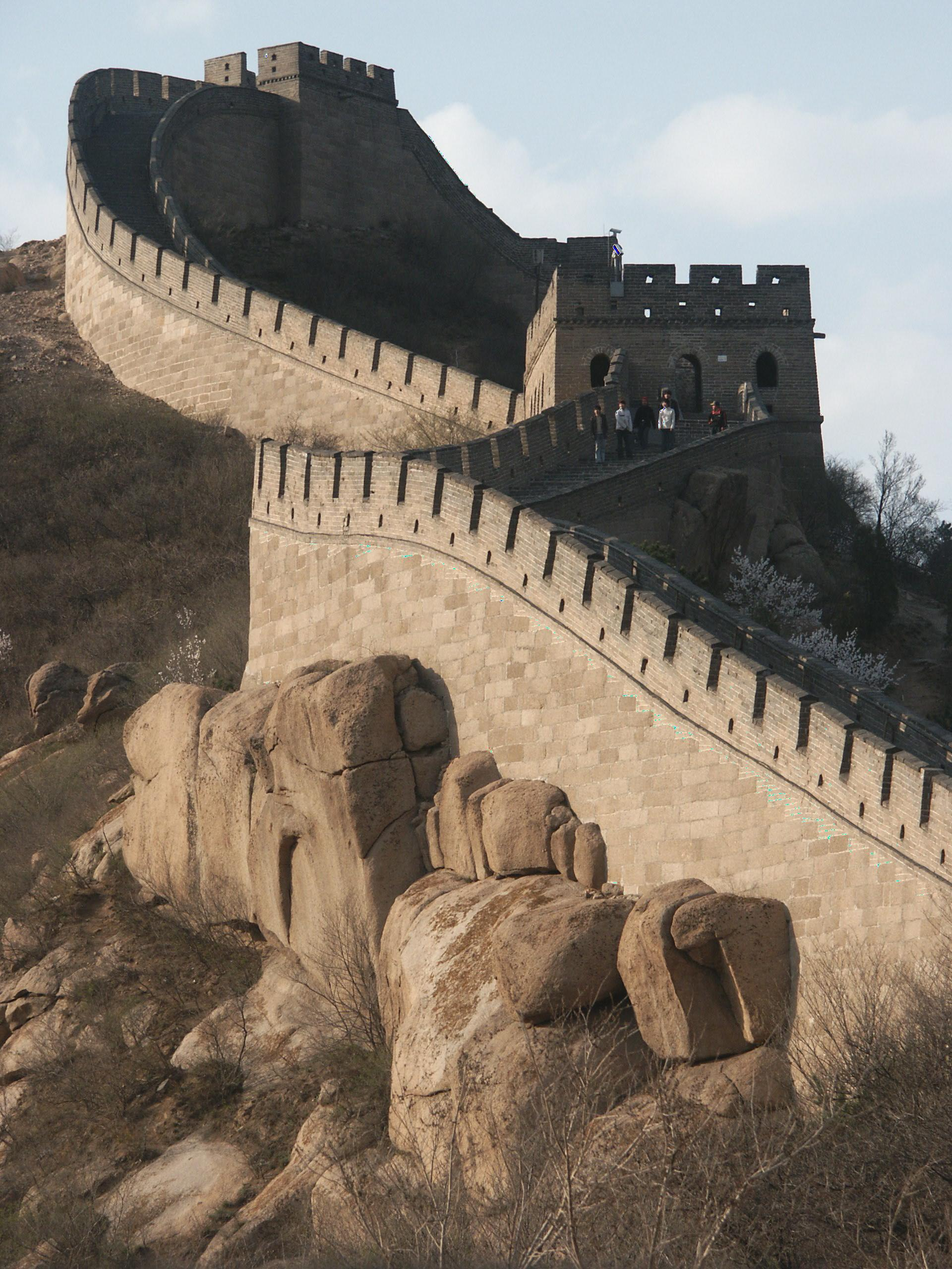
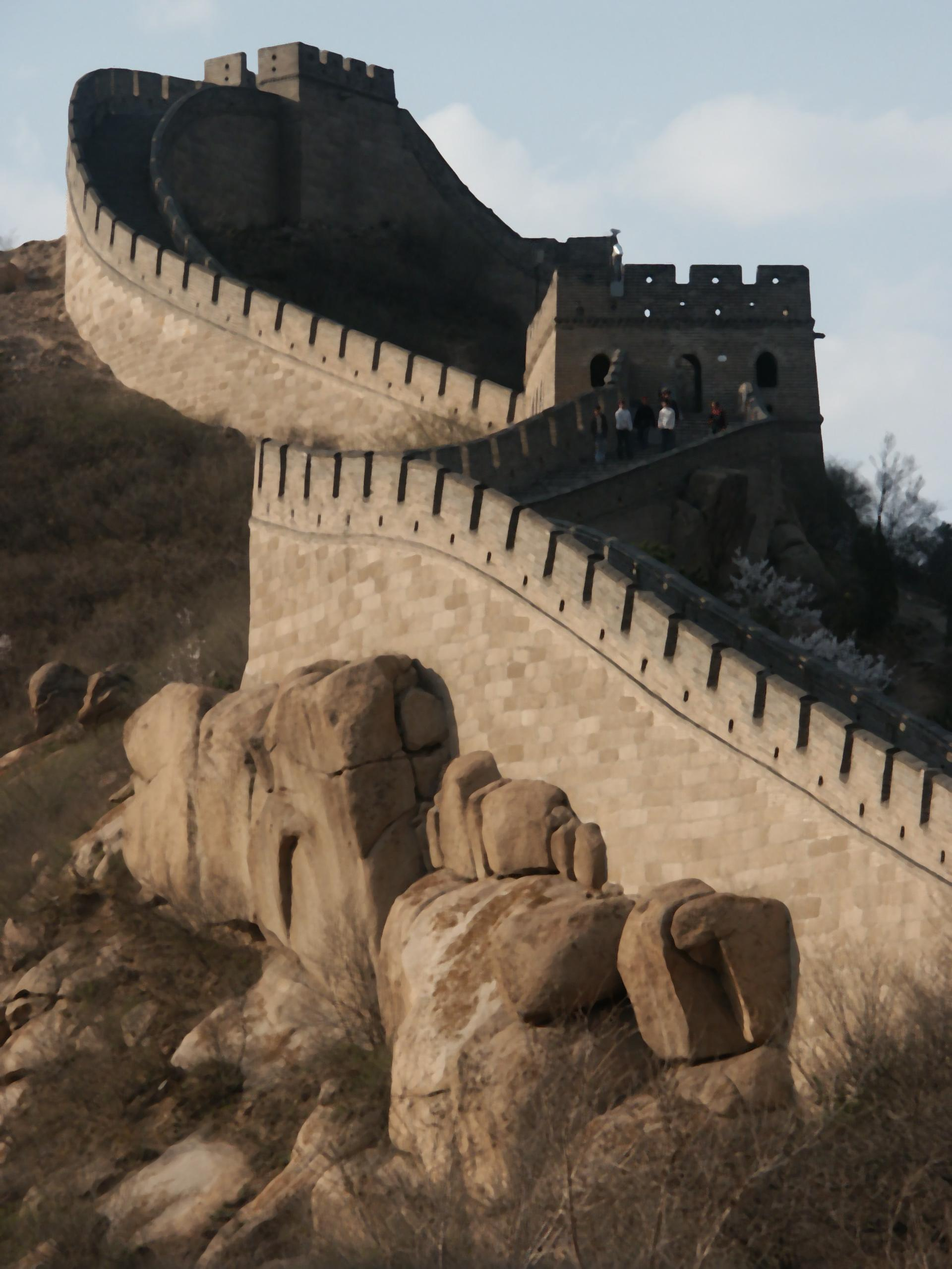
edge cases fixed

diff --git a/Prac2.cpp b/Prac2.cpp
@@ -92,7 +92,7 @@ void quickSort(int* pArray, int pLower_i, int pHigher_i){
 int main(int argc, char** argv){
   printf("Code is running...");
   tic();
-  Input.Read("Data/small.jpg");
+  Input.Read("Data/greatwall.jpg");
   int winSizeX = 9;
   int winSizeY = 9;
   //quickSort(arr, 0, n-1);
@@ -106,7 +106,10 @@ int main(int argc, char** argv){
   int x, y, fx, fy, winEdgeX, winEdgeY;
   for(y = 0; y < Input.Height; y++){
     winEdgeY = y - (winSizeY/2);
+    int diffY = 0;
+ //   std::cout << "EdgeY ---------------: "<< winEdgeY << std::endl;
     if(winEdgeY < 0){
+      diffY = -winEdgeY;
       winEdgeY = 0;
     }
 
@@ -114,18 +117,21 @@ int main(int argc, char** argv){
       // get all the neighboring pixels and put them in and array of 81 items
       // Window will be shrinked near the boundries
       winEdgeX = x - (((int)(winSizeX/2))*Input.Components);
+      //std::cout << "EdgeX ---------------: "<< winEdgeX << std::endl;
+      int diffX = 0;
       if(winEdgeX < 0){
+        diffX = -winEdgeX;
         winEdgeX = 0;
       }
 
-      int diffX = 0;
-      int diffY = 0;
       if((winEdgeX + (winSizeX*Input.Components)) > (Input.Width*Input.Components)){
         diffX = (winEdgeX + (winSizeX*Input.Components)) - (Input.Width*Input.Components);
       } 
       if((winEdgeY + winSizeY) > Input.Height){
         diffY = (winEdgeY + winSizeY) - Input.Height;
       }
+      //std::cout << "X ---------------: " << diffX<< std::endl;
+     // std::cout << "Y ---------------: " << diffY<< std::endl;
       int n = (winSizeX - (diffX/Input.Components))*(winSizeY - diffY);
       neighborPixels = new int[n];
       int i = 0;
@@ -135,29 +141,34 @@ int main(int argc, char** argv){
         }
       }
       // Sort this list
-      std::cout << "Before sorting ---------------" << std::endl;
-      printArray(neighborPixels, n);
+   //   std::cout << "Before sorting ---------------" << std::endl;
+//      printArray(neighborPixels, n);
       quickSort(neighborPixels, 0, n - 1);
-      std::cout << "After sorting ---------------" << std::endl;
-      printArray(neighborPixels, n); 
+//      std::cout << "After sorting ---------------" << std::endl;
+//      printArray(neighborPixels, n); 
       // Save the median of the sorted list to the current pixel
       int median = neighborPixels[(n - 1)/2];
       delete[] neighborPixels;
 
       // Convert the median back to RGB (3 components
-      std::cout << "Size of window ---------------: " << n << std::endl;
-      std::cout << "Median ---------------: " << median << std::endl;
+  //    std::cout << "Size of window ---------------: " << n << std::endl;
+//      std::cout << "Median ---------------: " << median << std::endl;
 
-      Output.Rows[y][x + 0] = ((median >> 16) & 0xff)/255.0;
-      Output.Rows[y][x + 1] = ((median >> 8) & 0xff)/255.0;
-      Output.Rows[y][x + 2] = (median & 0xff)/255.0;
+      Output.Rows[y][x + 0] = ((median >> 16) & 0xff);
+      Output.Rows[y][x + 1] = ((median >> 8) & 0xff);
+      Output.Rows[y][x + 2] = (median & 0xff);
       
-      std::cout << "-------R--------" << (int)Output.Rows[y][x + 0] <<std::endl;
-      std::cout << "-------G--------" << (int)Output.Rows[y][x + 1] <<std::endl;
-      std::cout << "-------B--------" << (int)Output.Rows[y][x + 2] <<std::endl;      
-      break;
+//      std::cout << "-------R--------" << (int)Output.Rows[y][x + 0] <<std::endl;
+//      std::cout << "-------G--------" << (int)Output.Rows[y][x + 1] <<std::endl;
+//      std::cout << "-------B--------" << (int)Output.Rows[y][x + 2] <<std::endl;      
+//      break;
     }
-    break;
+//    break;
+  }
+ // Write the output image
+  if(!Output.Write("Data/Output1.jpg")){
+    printf("Cannot write image\n");
+    return -3;
   }
 
   printf("Run time is: %lg ms \n", toc()/(1e-3));
